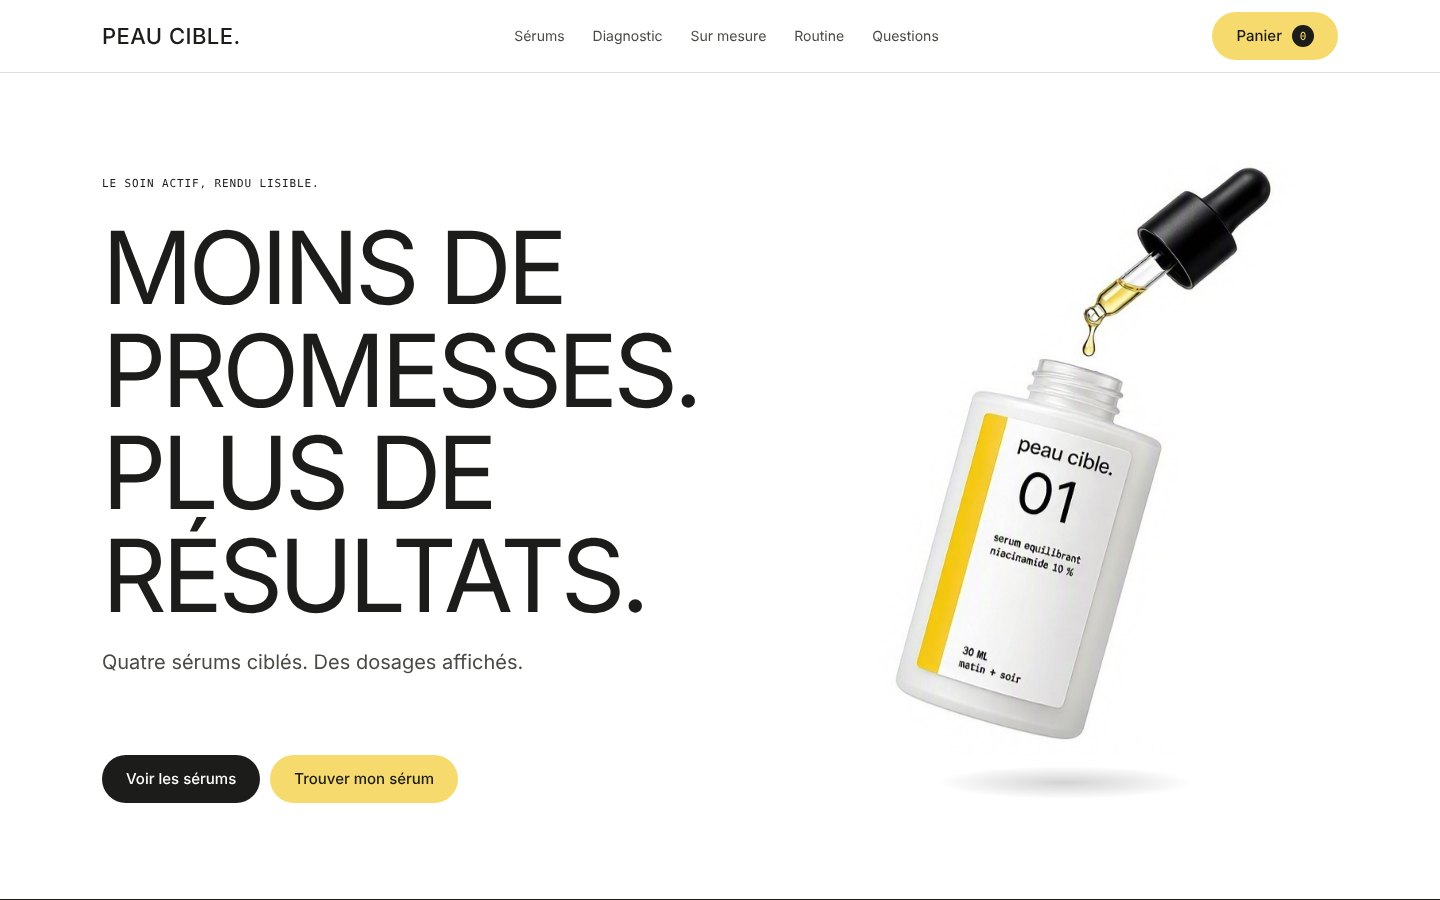
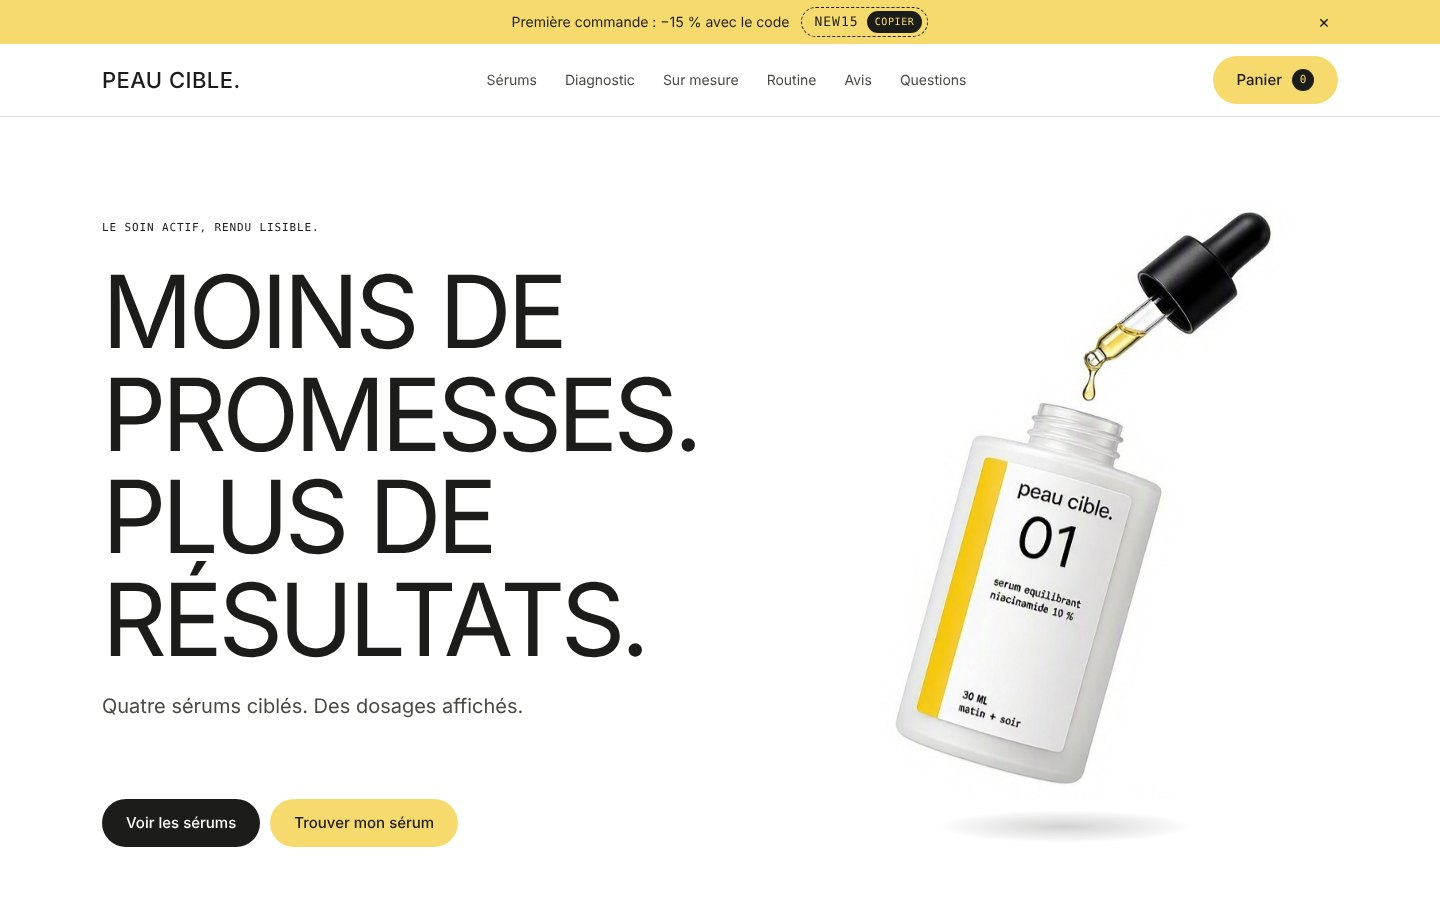
Page projet Peau Cible : texte et capture du site à jour
Claude-Session: https://claude.ai/code/session_01FzwBmncj8JGb2dSua4z4Jr

diff --git a/projects/peau-cible.html b/projects/peau-cible.html
@@ -93,7 +93,7 @@
     <img src="../book-assets/peau-cible-07-newsletter-complete.jpg" alt="Newsletter La Note N° 01 en entier : la niacinamide, fiche actif, sérum Équilibrant, routine du mois, sur mesure" loading="lazy">
     <figcaption>La Note N° 01, en entier — e-mail de 600 px, compatible Brevo et Mailchimp. <a href="../peau-cible/newsletter.html">Ouvrir la newsletter →</a></figcaption>
   </figure>
-  <div class="proj-cta reveal" style="--i:10"><a class="btn btn-solid" href="../peau-cible/index.html">Essayer le site →</a><p>Filtrez les sérums, faites le diagnostic, composez votre sérum et passez commande (simulée). <a href="../peau-cible/newsletter.html">Voir la newsletter</a>.</p></div>
+  <div class="proj-cta reveal" style="--i:10"><a class="btn btn-solid" href="../peau-cible/index.html">Essayer le site →</a><p>Filtrez les sérums, faites le diagnostic, composez votre sérum, lisez ou laissez un avis, puis passez commande avec le code NEW15 (paiement simulé). <a href="../peau-cible/newsletter.html">Voir la newsletter</a>.</p></div>
 </div>
 
 <div class="proj-footnav">
